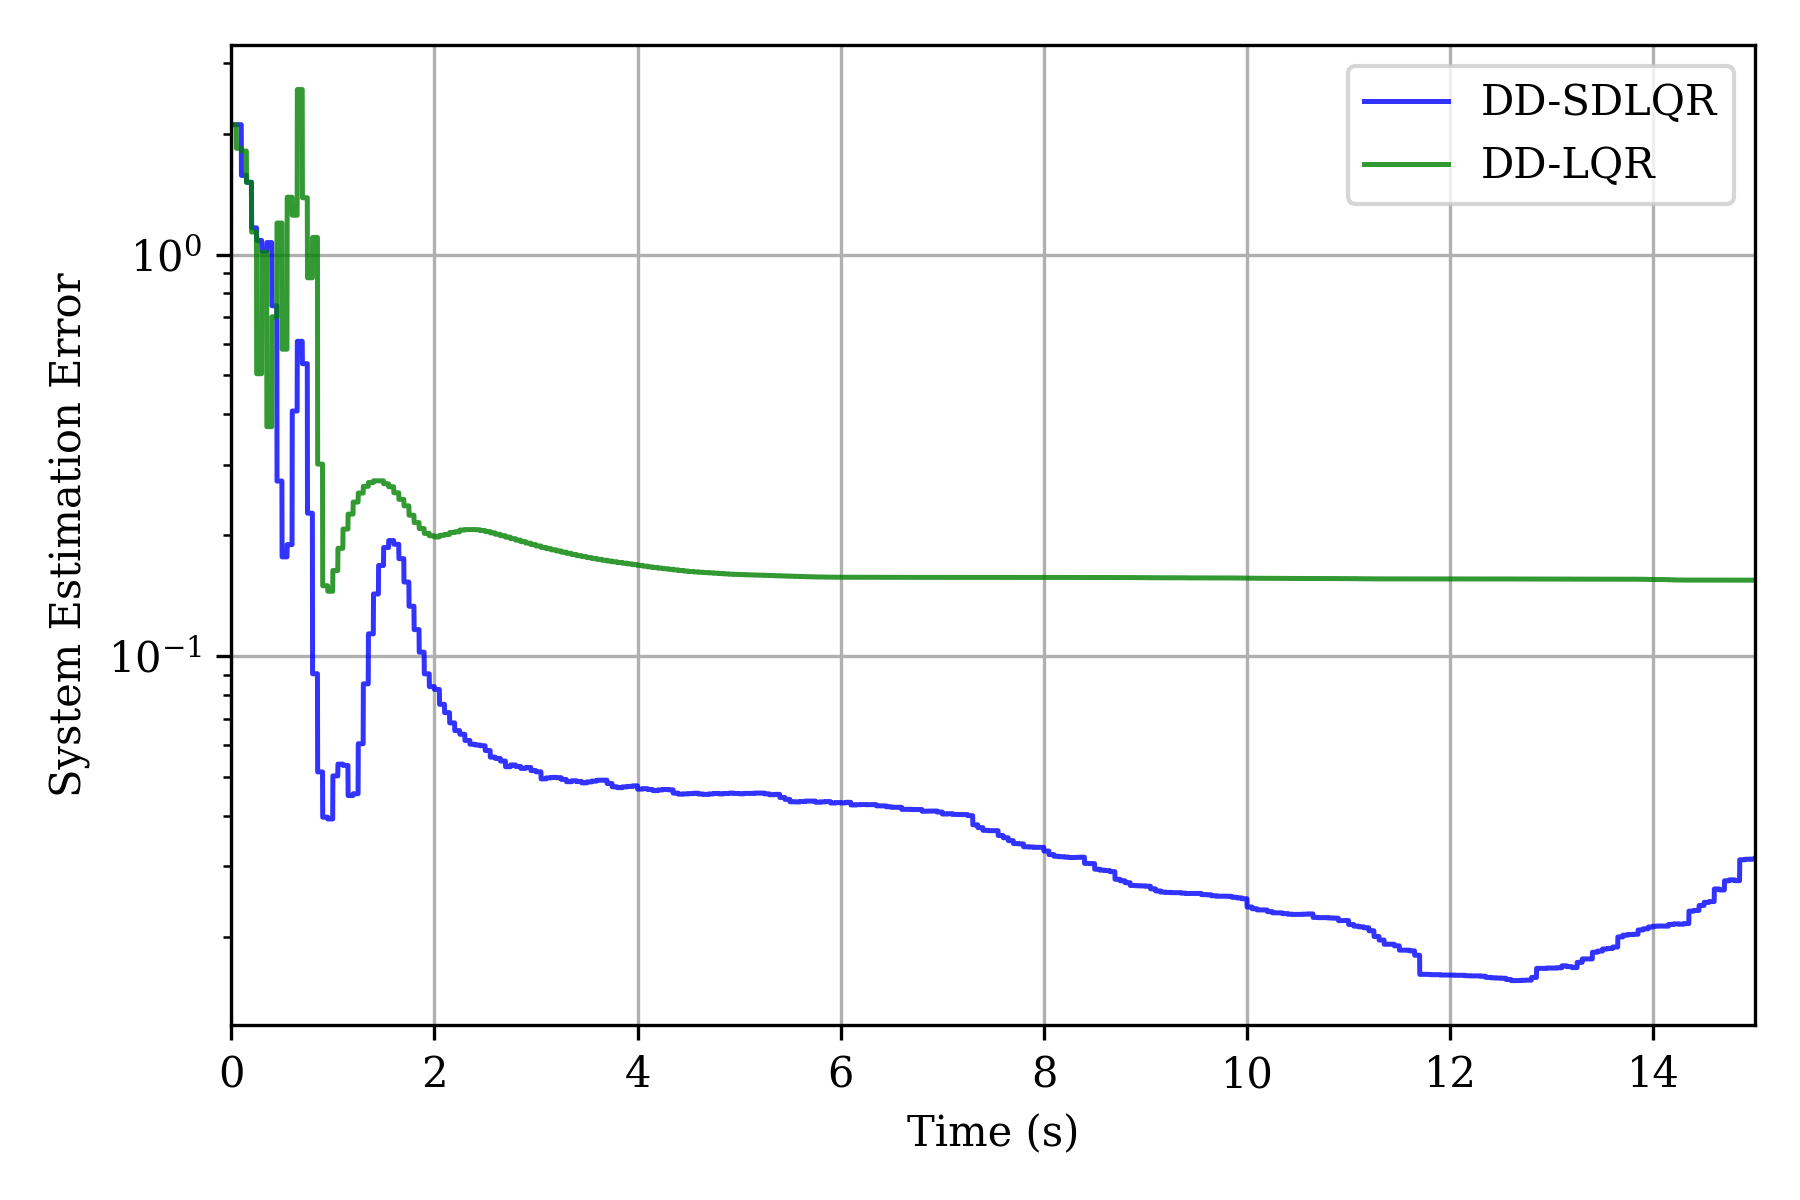
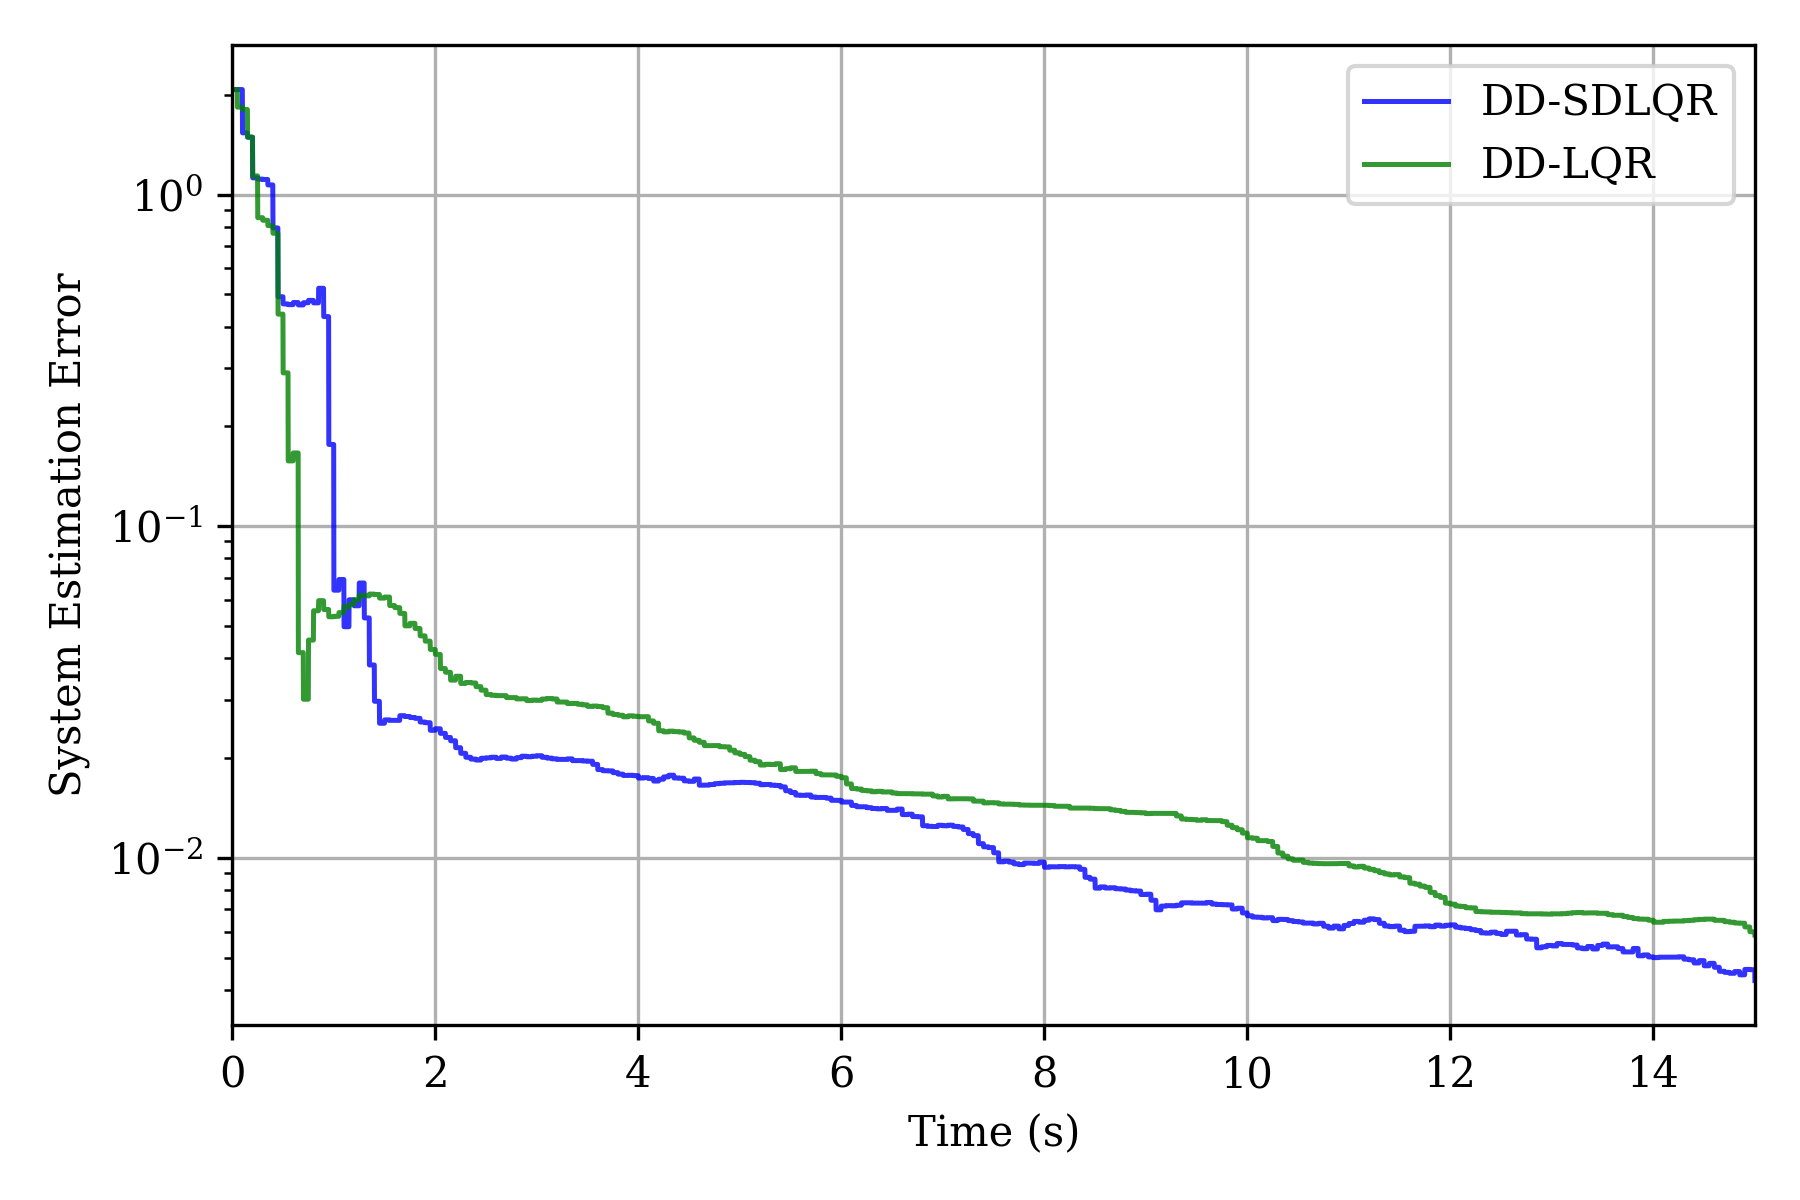
changed to hanging pendulum on a cart

diff --git a/visualiser.py b/visualiser.py
@@ -279,6 +279,51 @@ class Visualizer:
         print(f"Performance ratio (DD-SDLQR/SD-LQR): {state_norm_ddsd[-1]/state_norm_sd[-1]:.4f}")
         print(f"Performance ratio (DD-LQR/SD-LQR): {state_norm_dd[-1]/state_norm_sd[-1]:.4f}")
 
+    def plot_state_subplots(self, X_sim_ddsd, X_sim_dd, X_sim_sd,
+                            save_path='state_subplots.png'):
+        """
+        Plots each state trajectory in a 2x2 subplot, comparing all three controllers.
+
+        Args:
+            X_sim_ddsd: DD-SDLQR states (n × N)
+            X_sim_dd: DD-LQR states (n × N)
+            X_sim_sd: SD-LQR states (n × N)
+            save_path: Where to save the plot
+        """
+        # Convert to (N, n) format
+        if X_sim_ddsd.shape[0] < X_sim_ddsd.shape[1]:
+            X_sim_ddsd = X_sim_ddsd.T
+        if X_sim_dd.shape[0] < X_sim_dd.shape[1]:
+            X_sim_dd = X_sim_dd.T
+        if X_sim_sd.shape[0] < X_sim_sd.shape[1]:
+            X_sim_sd = X_sim_sd.T
+
+        n_states = X_sim_ddsd.shape[1]
+        t_sim = np.arange(len(X_sim_ddsd)) * self.h_sim
+        state_labels = self._get_state_labels(n_states)
+
+        fig, axes = plt.subplots(2, 2, figsize=(10, 7))
+        axes = axes.flatten()
+
+        for i in range(n_states):
+            ax = axes[i]
+            ax.plot(t_sim, X_sim_ddsd[:, i], label='DD-SDLQR',
+                    linewidth=1.2, color='blue', alpha=0.8)
+            ax.plot(t_sim, X_sim_dd[:, i], label='DD-LQR',
+                    linewidth=1.2, color='green', alpha=0.8)
+            ax.plot(t_sim, X_sim_sd[:, i], label='SD-LQR (Known Model)',
+                    linewidth=1.2, color='red', linestyle='--', alpha=0.8)
+            ax.set_ylabel(state_labels[i])
+            ax.set_xlabel('Time (s)')
+            ax.set_xlim(0, self.T_total)
+            ax.grid(True, alpha=0.3)
+            if i == 0:
+                ax.legend(fontsize=8)
+
+        fig.tight_layout()
+        fig.savefig(save_path, dpi=300)
+        print(f"\nState subplots saved to '{save_path}'")
+
     def plot_error_comparison(self, M_error_ddsd, M_error_dd,
                              save_path='system_error_comparison.png'):
         """

diff --git a/main.py b/main.py
@@ -44,13 +44,13 @@ dd_controller = DDLQRController(plant_3, Wx, Wu, h_control)
 ddsd_controller = DDSDLQRController(plant_1, Wx, Wu, h_control, L, lambda_, Sigma_zero)
 
 # Initial condition and simulation time
-x0 = np.array([[1.0], [0.5], [0.0], [0.0]])
+x0 = np.array([[1.0], [0.5], [0.5], [0.5]])
 # x0 = np.array([[1.0], [0.0]])
 sim_time = 15.0  # seconds
 
 # Perturbation due to unmodelled dynamics (if any)
 # Specify standard deviation for Gaussian noise (zero-mean) for each state
-w_std = np.array([[1e-4], [1e-4], [1e-4], [1e-4]])  # Standard deviation for each state component
+w_std = np.array([[1e-2], [1e-2], [1e-2], [1e-2]])  # Standard deviation for each state component
 # w_std = np.zeros((plant_1.n, 1))
 # w_std = np.array([[1e-4], [1e-4]])
 
@@ -97,6 +97,8 @@ viz = Visualizer(h_sim, sim_time, system=plant_1)
 print("\nGenerating comparison plots...")
 # viz.plot_comparison(ddsd_states, sd_states,
 #                    save_path='plots/simplified/state_norm_comparison.png')
+viz.plot_state_subplots(ddsd_states, dd_states, sd_states,
+                        save_path='plots/simplified/state_subplots.png')
 viz.plot_three_way_comparison(ddsd_states, dd_states, sd_states,
                               save_path='plots/simplified/three_way_state_norm_comparison.png')
 viz.plot_error_comparison(ddsd_simulation.M_error, dd_simulation.M_error,

diff --git a/cartpole_nonlinear.py b/cartpole_nonlinear.py
@@ -23,12 +23,12 @@ class CartPoleModel:
         """
         dx1 = x[2]
         dx2 = x[3]
-        dx3 = (-self.mass_pole * self.length * np.sin(x[1]) * x[3]**2
+        dx3 = (self.mass_pole * self.length * np.sin(x[1]) * x[3]**2
                + self.mass_pole * self.gravity_acceleration * np.sin(x[1]) * np.cos(x[1])
                + u) / (self.mass_cart + self.mass_pole * np.sin(x[1])**2)
         dx4 = (-self.mass_pole * self.length * np.sin(x[1]) * np.cos(x[1]) * x[3]**2
-               + (self.mass_cart + self.mass_pole) * self.gravity_acceleration * np.sin(x[1])
-               + u * np.cos(x[1])) / (self.length * (self.mass_cart + self.mass_pole * np.sin(x[1])**2))
+               - (self.mass_cart + self.mass_pole) * self.gravity_acceleration * np.sin(x[1])
+               - u * np.cos(x[1])) / (self.length * (self.mass_cart + self.mass_pole * np.sin(x[1])**2))
         return [dx1, dx2, dx3, dx4]
 
     def dynamics_dt(self, x, u, sampling_time):

diff --git a/system.py b/system.py
@@ -33,10 +33,10 @@ class CartPole(System):
             [0.0, 0.0, 1.0, 0.0],
             [0.0, 0.0, 0.0, 1.0],
             [0.0, m_p*g/m_c, 0.0, 0.0],
-            [0.0, (m_p + m_c)*g/(m_c*l), 0.0, 0.0]
+            [0.0, -(m_p + m_c)*g/(m_c*l), 0.0, 0.0]
         ])
 
-        B = np.array([[0.0], [0.0], [1.0/m_c], [1.0/(m_c*l)]])
+        B = np.array([[0.0], [0.0], [1.0/m_c], [-1.0/(m_c*l)]])
         
         super().__init__(A, B)
 
